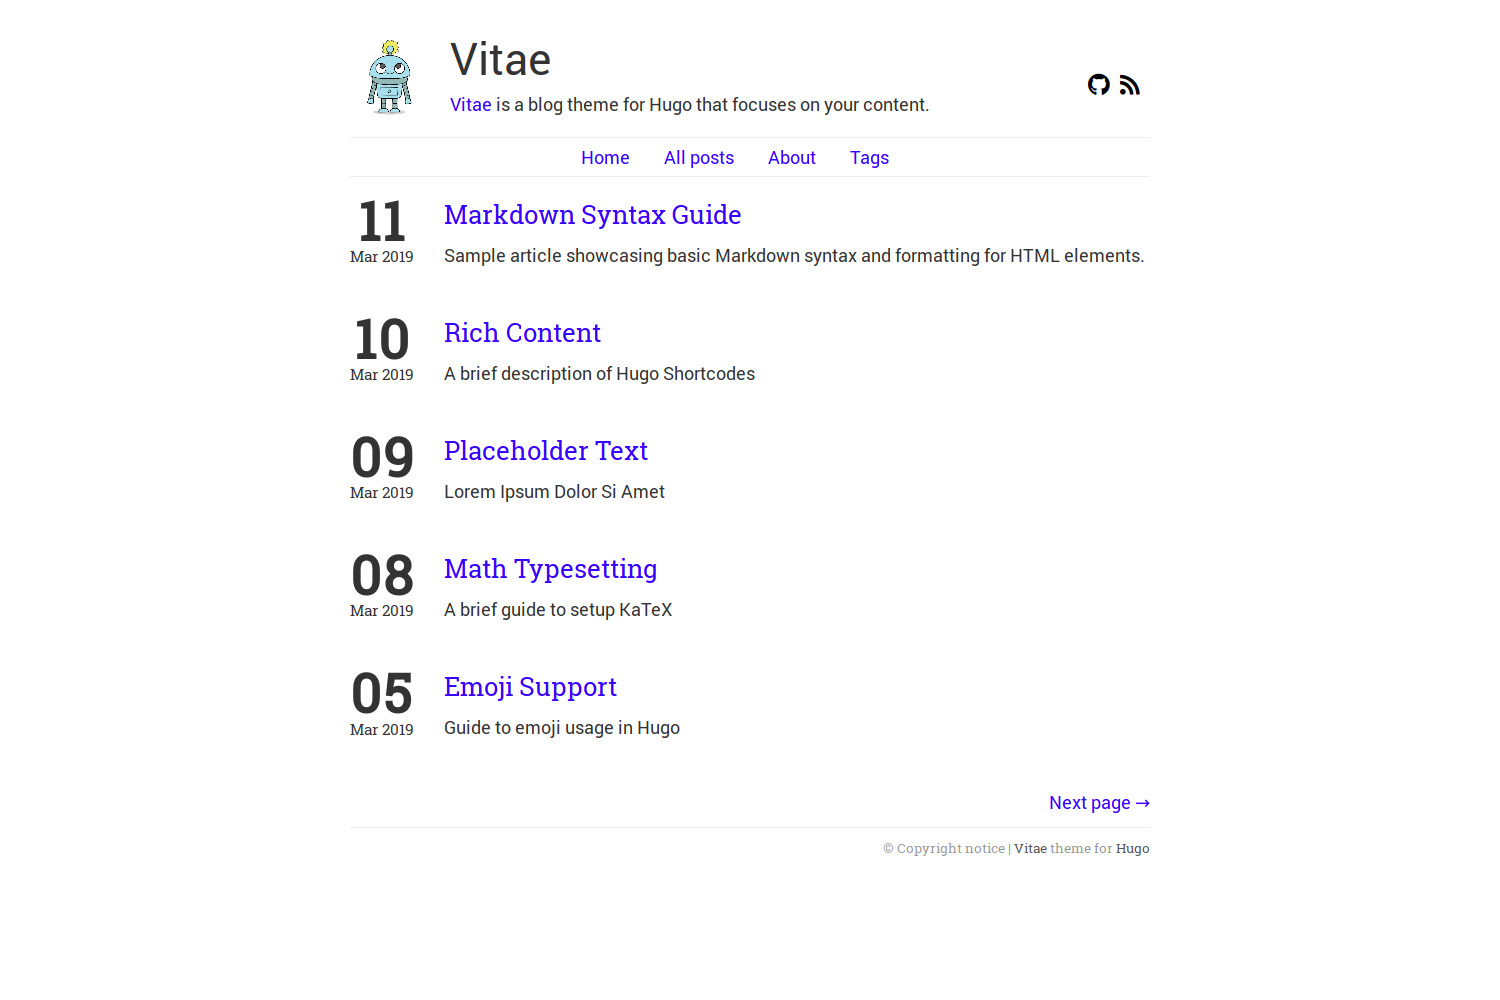
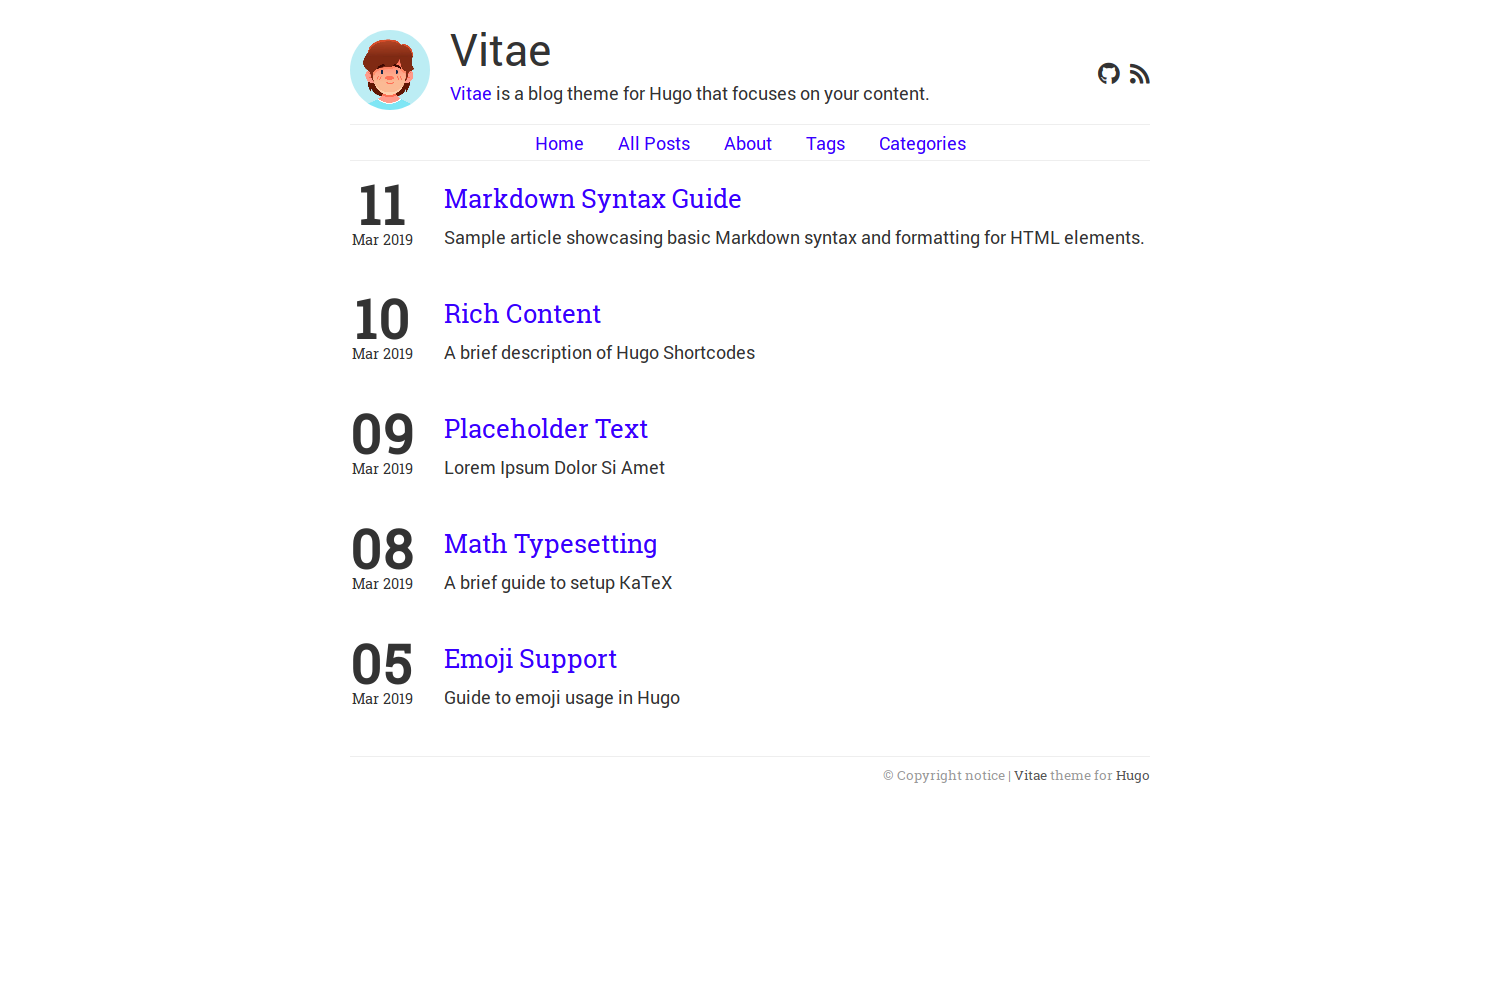
Initial release of redesign
The theme is now completely rewritten from scratch. In the future it
will now be easier to make improvments to the theme.

diff --git a/README.md b/README.md
@@ -1,27 +1,165 @@
 # Vitae
-... is a blog theme for Hugo that **focuses on your content** with some cool new **features**.
+... is a blog theme for Hugo that **focuses on your content**.
 
-## Welcome the the REDESIGN.
+## Redesign
 
-The foundation of the theme is now completely rewritten from scratch. This
-version is now ready for first tests and error analysis.
-
-Until the redesign can replace the current version, it will take some time.
+The theme is now completely rewritten from scratch. In the future it will now
+be easier to make improvments to the theme.
 
 If you notice anything, please write an issue.
 
-**!This version should currently not been used for live-blogs!**
+## Demo
+
+You can have a look on https://themes.gohugo.io.
+[Link to demo](https://themes.gohugo.io/theme/hugo-vitae/)
+
+![Screenshot](https://raw.githubusercontent.com/dataCobra/hugo-vitae/master/images/screenshot.png)
+
+## List of Features
+
+Here is a short list with some of the features that are available for
+Hugo-Vitae.
+
+For more explanation about various features, scroll down to **Features**
+
+* Easy to use, even with GDPR in mind
+* Improved <head> part for SEO
+* Optimized responsiveness for all kinds of devices
+* Multilingual support for month names and other fixed strings
+* Various front matter and configuration options for more flexible use.
+* RSS feed
+* Disqus comments (optional)
+* Google Analytics integration (optional)
+* Twitter cards and Open Graph tags integration
+* And some other cool features...
+
+## Installation
+
+### Stable
+
+Download the [latest stable release](https://github.com/dataCobra/hugo-vitae/releases/latest).
+It's available as `.zip` or `.tar.gz`. Decompress it into your `themes/` folder.
+
+### Development
+
+Change your current work directory into the root directory of your Hugo site
+and clone the repository:
 
 ```sh
 cd themes
 git clone https://github.com/datacobra/hugo-vitae.git hugo-vitae
-git checkout -b redesign
 ```
+
+For more information about installation read the
+[official setup guide](https://gohugo.io/overview/installing/) of Hugo.
+
+## Features
+
+### GDPR in mind
+
+The GDPR has many rules for third party assets, so if you don't want to think
+about GDPR complaints you can disable every third party asset that is
+integrated.
+
+Some websites using webfonts from third party sites like google. This theme
+brings FontAwesome and Roboto(-Slab) directly with it, without having to
+integrate them via third party sites.
+
+### Multilingual support for month names and fixed strings
+
+#### month names
+
+Due to the currently unavailable feature for multilingual dates in `.Date`
+from Go. It is possible to create a `month.yaml` in the data folder of your
+Hugo site root directory. There is also an example file in
+`exampleSite/data/`.
+
+```sh
+cat > month.yaml << EOF
+1: "Jan"
+2: "Feb"
+3: "Mar"
+4: "Apr"
+5: "May"
+6: "Jun"
+7: "Jul"
+8: "Aug"
+9: "Sep"
+10: "Oct"
+11: "Nov"
+12: "Dec"
+EOF
+```
+
+#### fixed strings
+
+There are some fixed strings in the html files that normally uses only the set
+language. But if you create a folder `i18n/` in the root directory of your
+hugo site and copy the `en.yaml` that comes with the theme you can edit the
+fixed strings to your liking. Don't forget to also set
+`defaultContentLanguage = "en"` to the new language.
+
+```sh
+mkdir i18n
+cd i18n
+cp ../themes/hugo-vitae/i18n/en.yaml en.yaml
+# Edit the new language file
+```
+
+### FontAwesome for social icons
+
+FontAwesome is mainly used for the icons of the social navbar in the top right
+corner of the theme. In the config of your Hugo website there is a param
+called `icon` for the `params.social` section. I could look like this:
+
+```toml
+[[params.social]]
+name = "Github"
+icon = "fab fa-github"
+url = "https://github.com/dataCobra/hugo-vitae"
+```
+
+On the [FontAwesome](https://fontawesome.com) website, you can look up every
+free icon and also the information you need to put into this `icon` param.
+
+### Site configuration options
+
+All configuration options can be looked up in the `exampleSite/config.toml`.
+
+### Front matter options
+
+**math(bool)**
+
+Add math typesetting with KaTeX to the content page.
+
+**author(string) and authorlink(string)**
+
+Add author of a page and if you want, add a link to the author.
+
+**nofeed(bool)**
+
+Don't add page to RSS.
+
+**notaxonomy(list)**
+
+Disable specific taxonomies for a page.
+
+**disqus(bool)**
+
+Enable/Disable Disqus for this specific page.
+
+**hidden(bool)**
+
+Hide page from the mainSection of the homepage.
+
+**norobots(bool)**
+
+Disallow page in robots.txt for search engines.
 
 ## Credits
 
 * [hugo-ink](https://github.com/knadh/hugo-ink) from which Vitae was forked
-* [freepik](https://www.freepik.com) for the robot avatar
+* [freepik](https://www.freepik.com) for the avatar
 * [google](https://fonts.google.com/specimen/Roboto) for the roboto fonts
 * [fontawesome](https://fontawesome.com) for providing amazing icons
 
